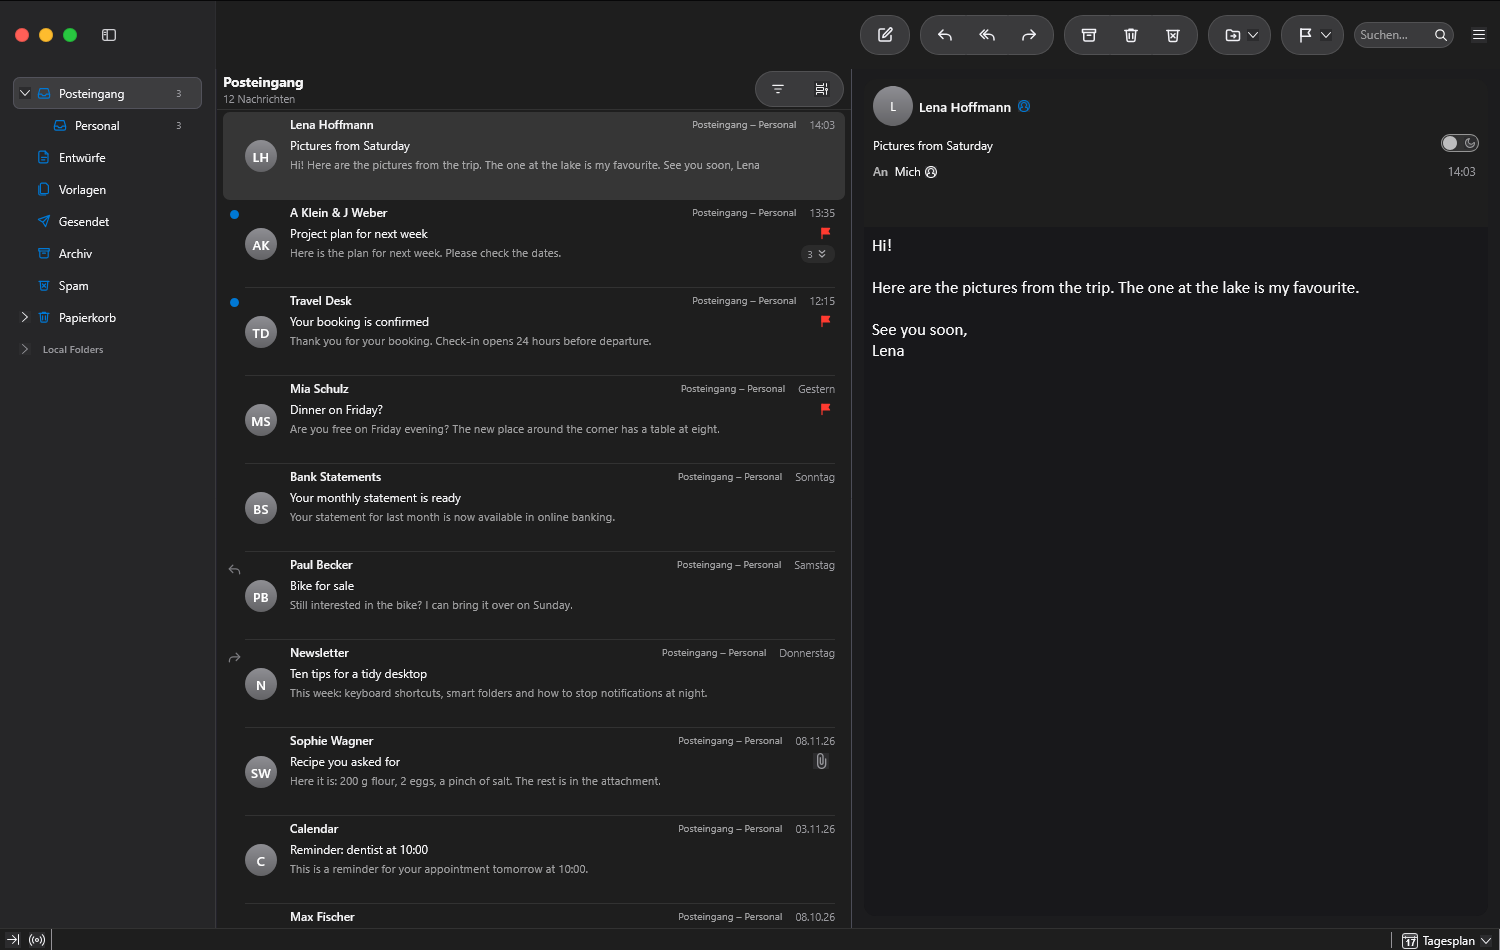
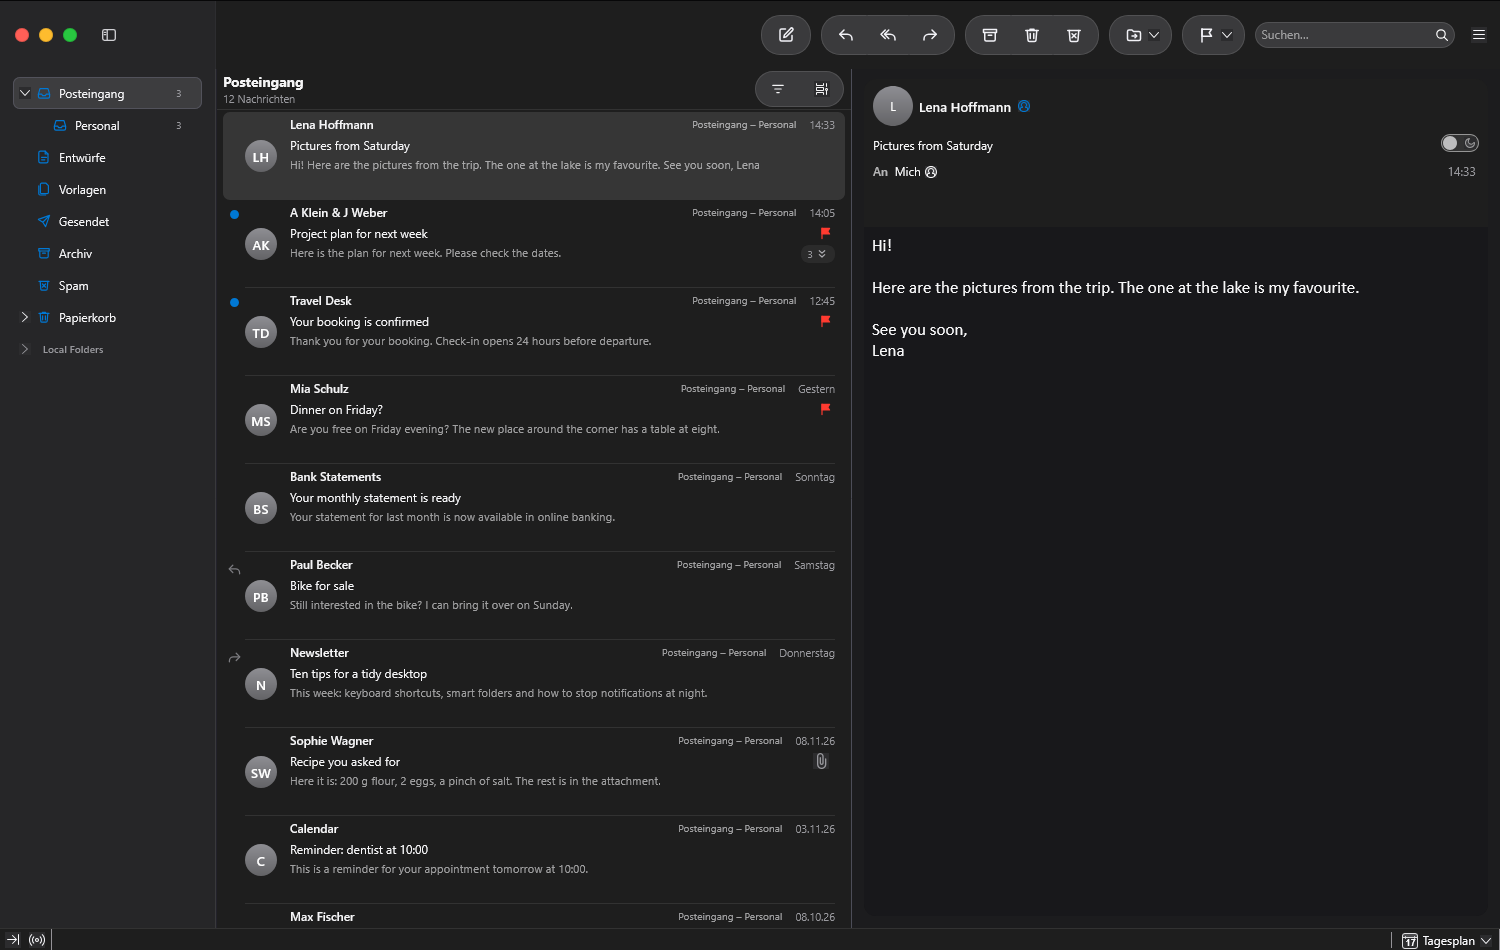
The search field keeps room for its label
It gave way to the buttons' shift over the message first and ended at "Sea"; with a least width the add-on
shortens the shift instead. Screenshots taken again.

Changed region(s): [[0.4907, 0.0, 0.92, 0.0611]]

diff --git a/userChrome.css b/userChrome.css
@@ -109,6 +109,8 @@ unified-toolbar {
 #unifiedToolbarContent li[item-id="search-bar"] {
   flex: 0 1 260px !important;
   max-inline-size: 260px !important;
+  /* room for "Search…": the field does not give way to the buttons' shift, the add-on shortens the shift instead */
+  min-inline-size: min(200px, 20vw) !important;
   margin-inline-start: 10px !important;
   --button-border-radius: 19px;
   --search-padding: 8px;
